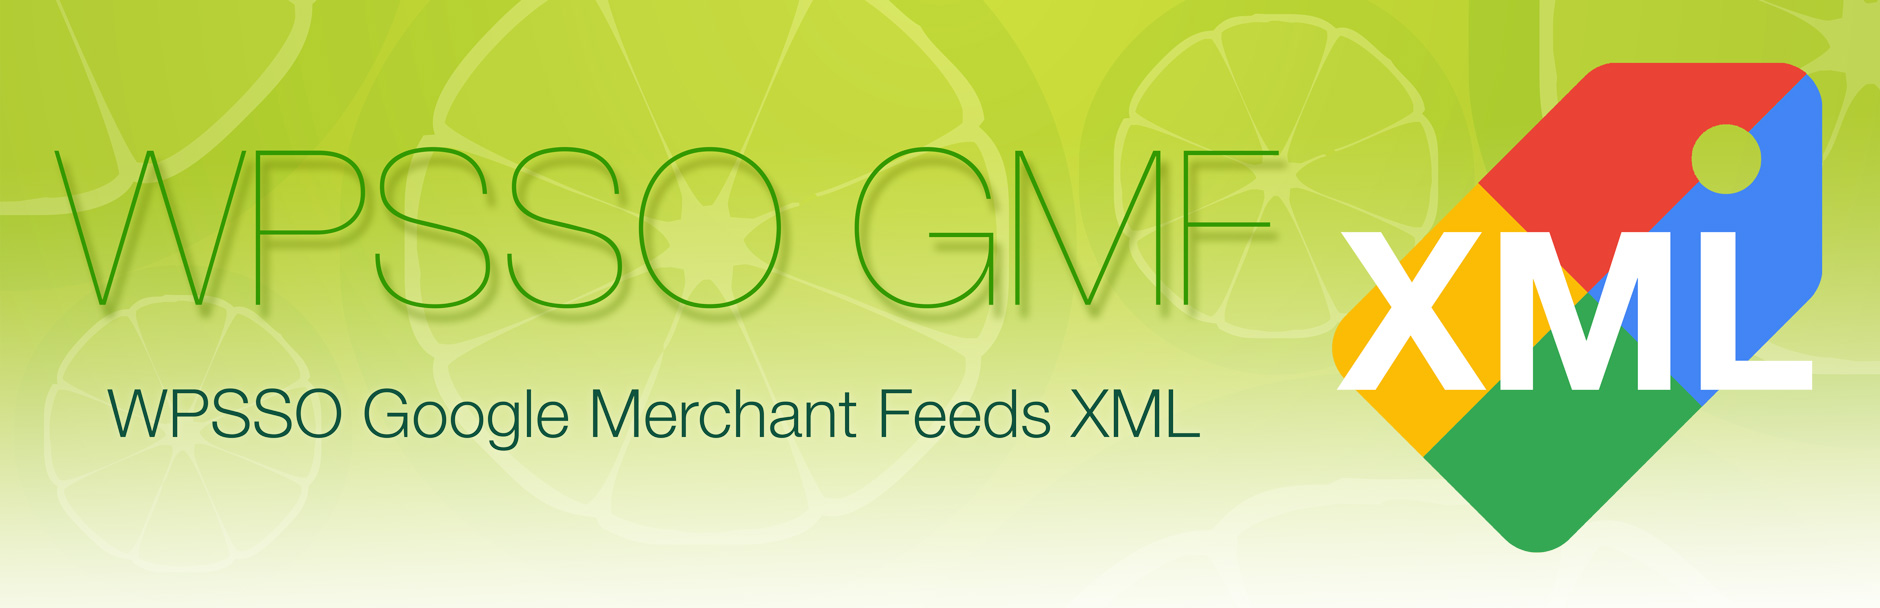
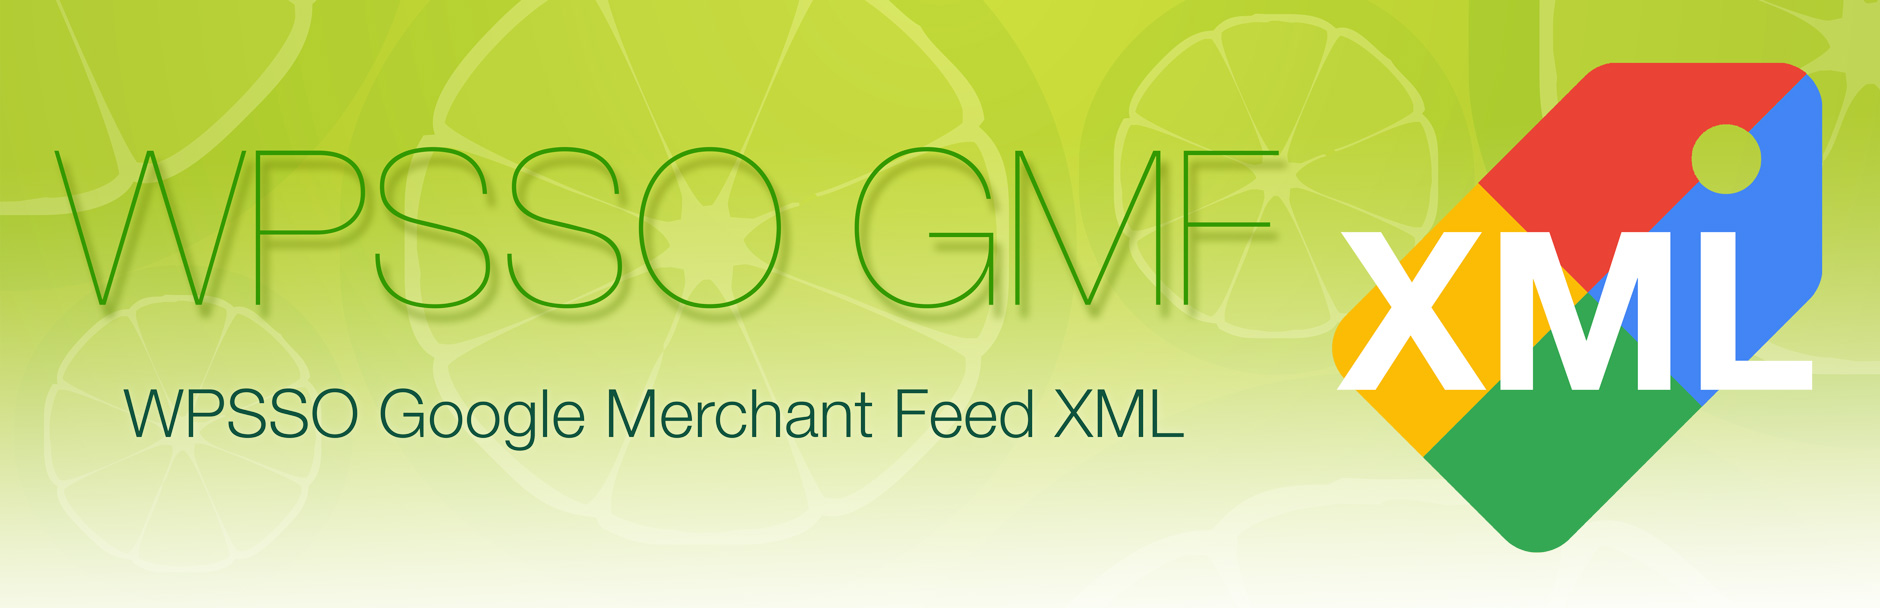
non-essential support files (documentation and assets)

Changed region(s): [[0.0617, 0.625, 0.6479, 0.75]]

diff --git a/index.html b/index.html
@@ -25,11 +25,11 @@
         </ul>
       </header>
       <section>
-<h1>WPSSO Google Merchant Feeds XML</h1>
+<h1>WPSSO Google Merchant Feed XML</h1>
 
 <table>
-<tr><th align="right" valign="top" nowrap>Plugin Name</th><td>WPSSO Google Merchant Feeds XML</td></tr>
-<tr><th align="right" valign="top" nowrap>Summary</th><td>Google Merchant Feeds XML for WooCommerce, Easy Digital Downloads, and Custom Products.</td></tr>
+<tr><th align="right" valign="top" nowrap>Plugin Name</th><td>WPSSO Google Merchant Feed XML</td></tr>
+<tr><th align="right" valign="top" nowrap>Summary</th><td>Google Merchant Feed XMLs for WooCommerce, Easy Digital Downloads, and Custom Products.</td></tr>
 <tr><th align="right" valign="top" nowrap>Stable Version</th><td>3.0.1</td></tr>
 <tr><th align="right" valign="top" nowrap>Requires PHP</th><td>7.2 or newer</td></tr>
 <tr><th align="right" valign="top" nowrap>Requires WordPress</th><td>5.2 or newer</td></tr>
@@ -44,21 +44,21 @@
 
 <!-- about -->
 
-<p><strong>WPSSO Google Merchant Feeds XML add-on provides XML product feeds for Google Merchant Center in your site's language(s).</strong></p>
+<p><strong>WPSSO Google Merchant Feed XML add-on provides XML product feeds for Google Merchant Center in your site's language(s).</strong></p>
 
-<p>There are no plugin or add-on settings to configure &mdash; the WPSSO Google Merchant Feeds XML add-on automatically retrieves all available product information in the language (aka locale) requested.</p>
+<p>There are no plugin or add-on settings to configure &mdash; the WPSSO Google Merchant Feed XML add-on automatically retrieves all available product information in the language (aka locale) requested.</p>
 
-<p>A supported e-commerce plugin, like WooCommerce or Easy Digital Downloads, is suggested but not required &mdash; the WPSSO Google Merchant Feeds XML add-on can retrieve custom product information entered in the Document SSO metabox (WPSSO Core Premium required). WooCommerce product variations and additional product attributes are fully supported.</p>
+<p>A supported e-commerce plugin, like WooCommerce or Easy Digital Downloads, is suggested but not required &mdash; the WPSSO Google Merchant Feed XML add-on can retrieve custom product information entered in the Document SSO metabox (WPSSO Core Premium required). WooCommerce product variations and additional product attributes are fully supported.</p>
 
-<h3>XML Feed for Each Language</h3>
+<h3>Multilingual</h3>
 
-<p>Google Merchant Feeds XML for WooCommerce, Easy Digital Downloads, and custom products are automatically created in your site\'s language(s) from Polylang, WPLM, or the installed WordPress languages. After activating the WPSSO Google Merchant Feeds XML add-on, see the SSO &gt; Google Merchant Feeds settings page for the your feed URLs.</p>
+<p>Google merchant feed XMLs for WooCommerce, Easy Digital Downloads, and custom products are automatically created in your site\'s language(s) from Polylang, WPML, or the installed WordPress languages. After activating the WPSSO Google Merchant Feed XML add-on, see the SSO &gt; Merchant Feeds settings page for the your feed URLs.</p>
 
 <!-- /about -->
 
-<h3>Google Merchant Feed Attributes</h3>
+<h3>Google Merchant Feed XML Attributes</h3>
 
-<p>The following XML feed attributes are automatically generated from your WooCommerce, Easy Digital Downloads, and custom products, including WooCommerce product variations:</p>
+<p>The following XML product attributes are automatically created based on your WooCommerce, Easy Digital Downloads, and custom products (including WooCommerce product variations):</p>
 
 <ul>
 <li>ID <code>&#91;id&#93;</code></li>
@@ -89,15 +89,15 @@
 
 <h3>WPSSO Core Required</h3>
 
-<p>WPSSO Google Merchant Feeds XML (WPSSO GMF) is an add-on for the <a href="https://wordpress.org/plugins/wpsso/">WPSSO Core plugin</a>.</p>
+<p>WPSSO Google Merchant Feed XML (WPSSO GMF) is an add-on for the <a href="https://wordpress.org/plugins/wpsso/">WPSSO Core plugin</a>.</p>
 
 <h2>Installation</h2>
 
 <h3 class="top">Install and Uninstall</h3>
 
 <ul>
-<li><a href="https://wpsso.com/docs/plugins/wpsso-google-merchant-feed/installation/install-the-plugin/">Install the WPSSO Google Merchant Feeds XML add-on</a>.</li>
-<li><a href="https://wpsso.com/docs/plugins/wpsso-google-merchant-feed/installation/uninstall-the-plugin/">Uninstall the WPSSO Google Merchant Feeds XML add-on</a>.</li>
+<li><a href="https://wpsso.com/docs/plugins/wpsso-google-merchant-feed/installation/install-the-plugin/">Install the WPSSO Google Merchant Feed XML add-on</a>.</li>
+<li><a href="https://wpsso.com/docs/plugins/wpsso-google-merchant-feed/installation/uninstall-the-plugin/">Uninstall the WPSSO Google Merchant Feed XML add-on</a>.</li>
 </ul>
 
       </section>
